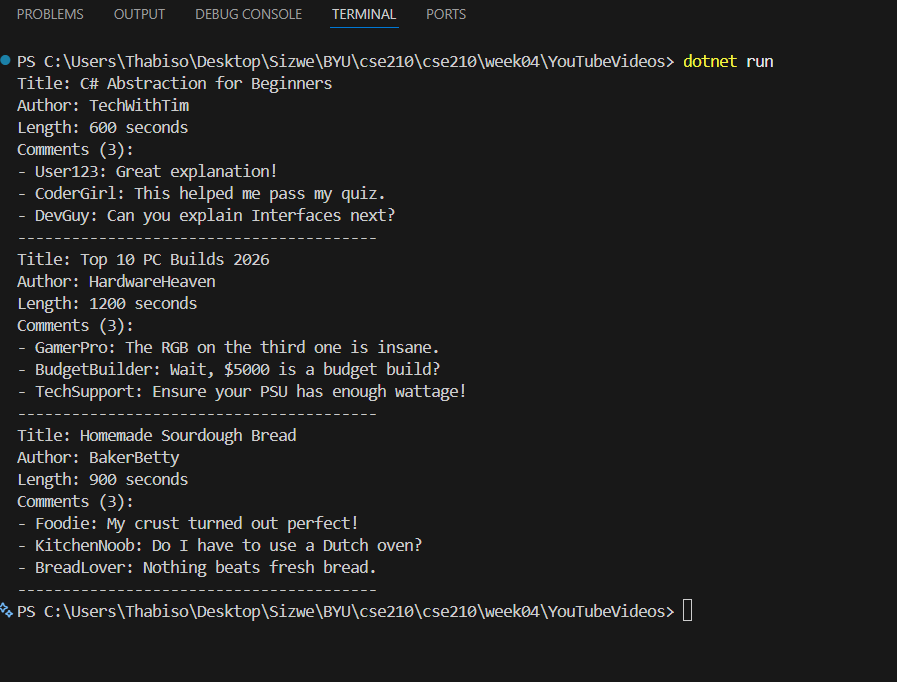
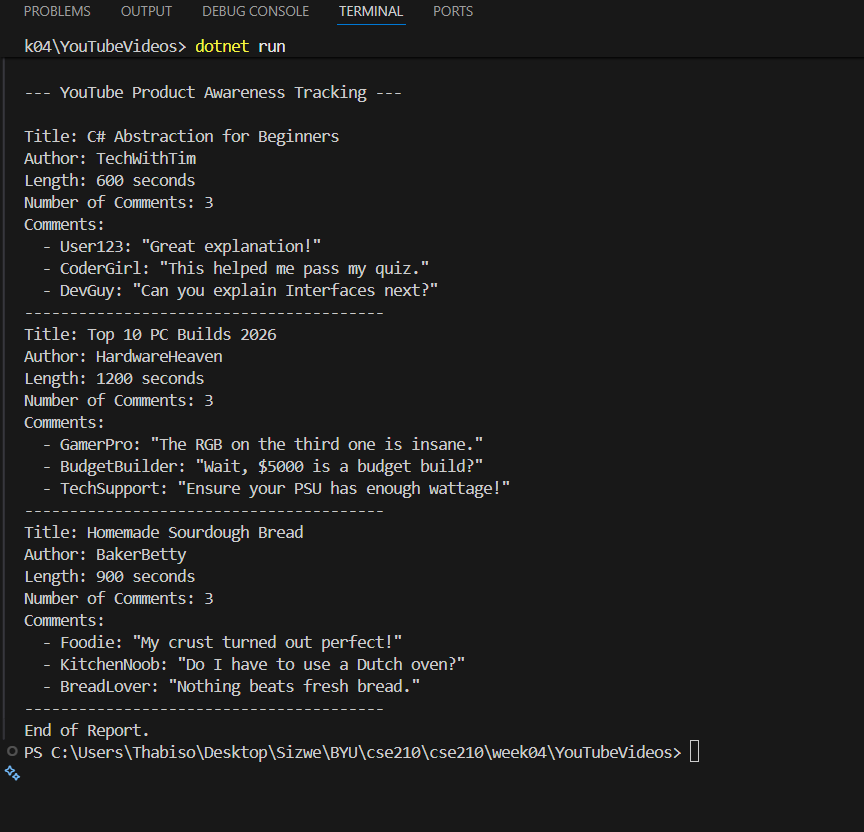
Finalized YouTube Program

Changed region(s): [[0.0, 0.0, 0.875, 0.9545]]

diff --git a/week04/YouTubeVideos/Program.cs b/week04/YouTubeVideos/Program.cs
@@ -1,24 +1,14 @@
 using YouTubeVideos;
 
-// 1. SETUP: Create a list to act as our "Database." 
-// We are telling the program to prepare a shelf that will only hold Video objects.
+// SETUP: Creating a list to store our Video objects (Class Composition).
 List<Video> videos = new List<Video>();
 
-// 2. CREATION: Building our first Video object.
-// Here we call the Constructor. We pass the title, author, and length as "raw materials."
+// CREATION: Initializing objects and adding comments via the public gateway.
 Video v1 = new Video("C# Abstraction for Beginners", "TechWithTim", 600);
-
-// 3. INTERACTION: Linking Comments to the Video.
-// We create a 'new Comment' and immediately pass it into the Video's 'AddComment' gateway.
-// This demonstrates encapsulation: the Video manages its own list internally.
 v1.AddComment(new Comment("User123", "Great explanation!"));
 v1.AddComment(new Comment("CoderGirl", "This helped me pass my quiz."));
 v1.AddComment(new Comment("DevGuy", "Can you explain Interfaces next?"));
-
-// 4. STORAGE: Saving the completed Video object into our main list.
 videos.Add(v1);
-
-// --- (Repeated logic for Video 2 and 3) ---
 
 Video v2 = new Video("Top 10 PC Builds 2026", "HardwareHeaven", 1200);
 v2.AddComment(new Comment("GamerPro", "The RGB on the third one is insane."));
@@ -32,26 +22,12 @@ v3.AddComment(new Comment("KitchenNoob", "Do I have to use a Dutch oven?"));
 v3.AddComment(new Comment("BreadLover", "Nothing beats fresh bread."));
 videos.Add(v3);
 
-// 5. OUTPUT: Iterating through our data to show the user.
-// The outer loop picks up one Video at a time from our "videos" list.
-foreach (var video in videos)
+// OUTPUT: Using the Video class's behavior to generate the report.
+Console.WriteLine("--- YouTube Product Awareness Tracking ---\n");
+
+foreach (Video video in videos)
 {
-    // Accessing Public Properties (Title, Author, Length) directly to print them.
-    Console.WriteLine($"Title: {video.Title}");
-    Console.WriteLine($"Author: {video.Author}");
-    Console.WriteLine($"Length: {video.Length} seconds");
-
-    // We ask the video for its "Comment Count" via a Method instead of looking at the list directly.
-    Console.WriteLine($"Comments ({video.GetCommentCount()}):");
-
-    // 6. NESTED LOOP: Drilling down into the internal data.
-    // We ask the 'video' to provide its list of comments, then we loop through that sub-list.
-    foreach (var comment in video.GetComments())
-    {
-        // For every comment found, we print the Name and Text properties.
-        Console.WriteLine($"- {comment.Name}: {comment.Text}");
-    }
-
-    // A simple visual break to separate the videos in the console output.
-    Console.WriteLine(new string('-', 40));
+    video.DisplayVideoDetails();
 }
+
+Console.WriteLine("End of Report.");

diff --git a/week04/YouTubeVideos/Video.cs b/week04/YouTubeVideos/Video.cs
@@ -1,39 +1,38 @@
-namespace YouTubeVideos; // Keeps all related code in one "container."
+namespace YouTubeVideos;
 
-public class Video // An "open door" blueprint accessible by any part of the program.
+public class Video
 {
-    // Public Properties: Visible to the outside world for easy reading/display.
-    public string Title { get; set; }
-    public string Author { get; set; }
-    public int Length { get; set; } // Represented in seconds.
-
-    // Private Field: An internal "database" hidden from outside interference.
+    // ENCAPSULATION: Member variables are private with _underscoreCamelCase.
+    private string _title;
+    private string _author;
+    private int _length;
     private List<Comment> _comments = new List<Comment>();
 
-    // Constructor: The "factory setup" that ensures every video is born with a title, author, and length.
     public Video(string title, string author, int length)
     {
-        // Taking the "raw materials" from parameters and assigning them to our public properties.
-        Title = title;
-        Author = author;
-        Length = length;
+        _title = title;
+        _author = author;
+        _length = length;
     }
 
-    // Receiver Method: Acts as the only "gateway" to safely add data to our private internal list.
-    public void AddComment(Comment comment)
-    {
-        _comments.Add(comment);
-    }
+    public void AddComment(Comment comment) => _comments.Add(comment);
 
-    // Reporter Method: Calculates the size of the list and "hands back" the total count as an integer.
-    public int GetCommentCount()
-    {
-        return _comments.Count;
-    }
+    public int GetCommentCount() => _comments.Count;
 
-    // Provider Method: Hands over the entire "box" of comments so they can be displayed.
-    public List<Comment> GetComments()
+    // ABSTRACTION: This method handles the display logic, 
+    // keeping Program.cs clean and focused on high-level flow.
+    public void DisplayVideoDetails()
     {
-        return _comments;
+        Console.WriteLine($"Title: {_title}");
+        Console.WriteLine($"Author: {_author}");
+        Console.WriteLine($"Length: {_length} seconds");
+        Console.WriteLine($"Number of Comments: {GetCommentCount()}");
+        Console.WriteLine("Comments:");
+
+        foreach (Comment comment in _comments)
+        {
+            Console.WriteLine($"  - {comment.GetFormattedComment()}");
+        }
+        Console.WriteLine(new string('-', 40));
     }
 }

diff --git a/week04/YouTubeVideos/Comment.cs b/week04/YouTubeVideos/Comment.cs
@@ -1,16 +1,16 @@
-namespace YouTubeVideos; // The container that keeps our Comment blueprint organized with the rest of the project.
+namespace YouTubeVideos;
 
-public class Comment // The blueprint for an individual feedback entry on a video.
+public class Comment
 {
-    // Properties: The "name tag" and the "message" that the outside world can read or write.
-    public string Name { get; set; }
-    public string Text { get; set; }
+    private string _name;
+    private string _text;
 
-    // Constructor: The "birth" of the comment. 🐣 
-    // It takes the raw strings (name and text) and assigns them to the properties above.
     public Comment(string name, string text)
     {
-        Name = name;
-        Text = text;
+        _name = name;
+        _text = text;
     }
+
+    // PROVIDER METHOD: Returns the formatted string for the display loop.
+    public string GetFormattedComment() => $"{_name}: \"{_text}\"";
 }
